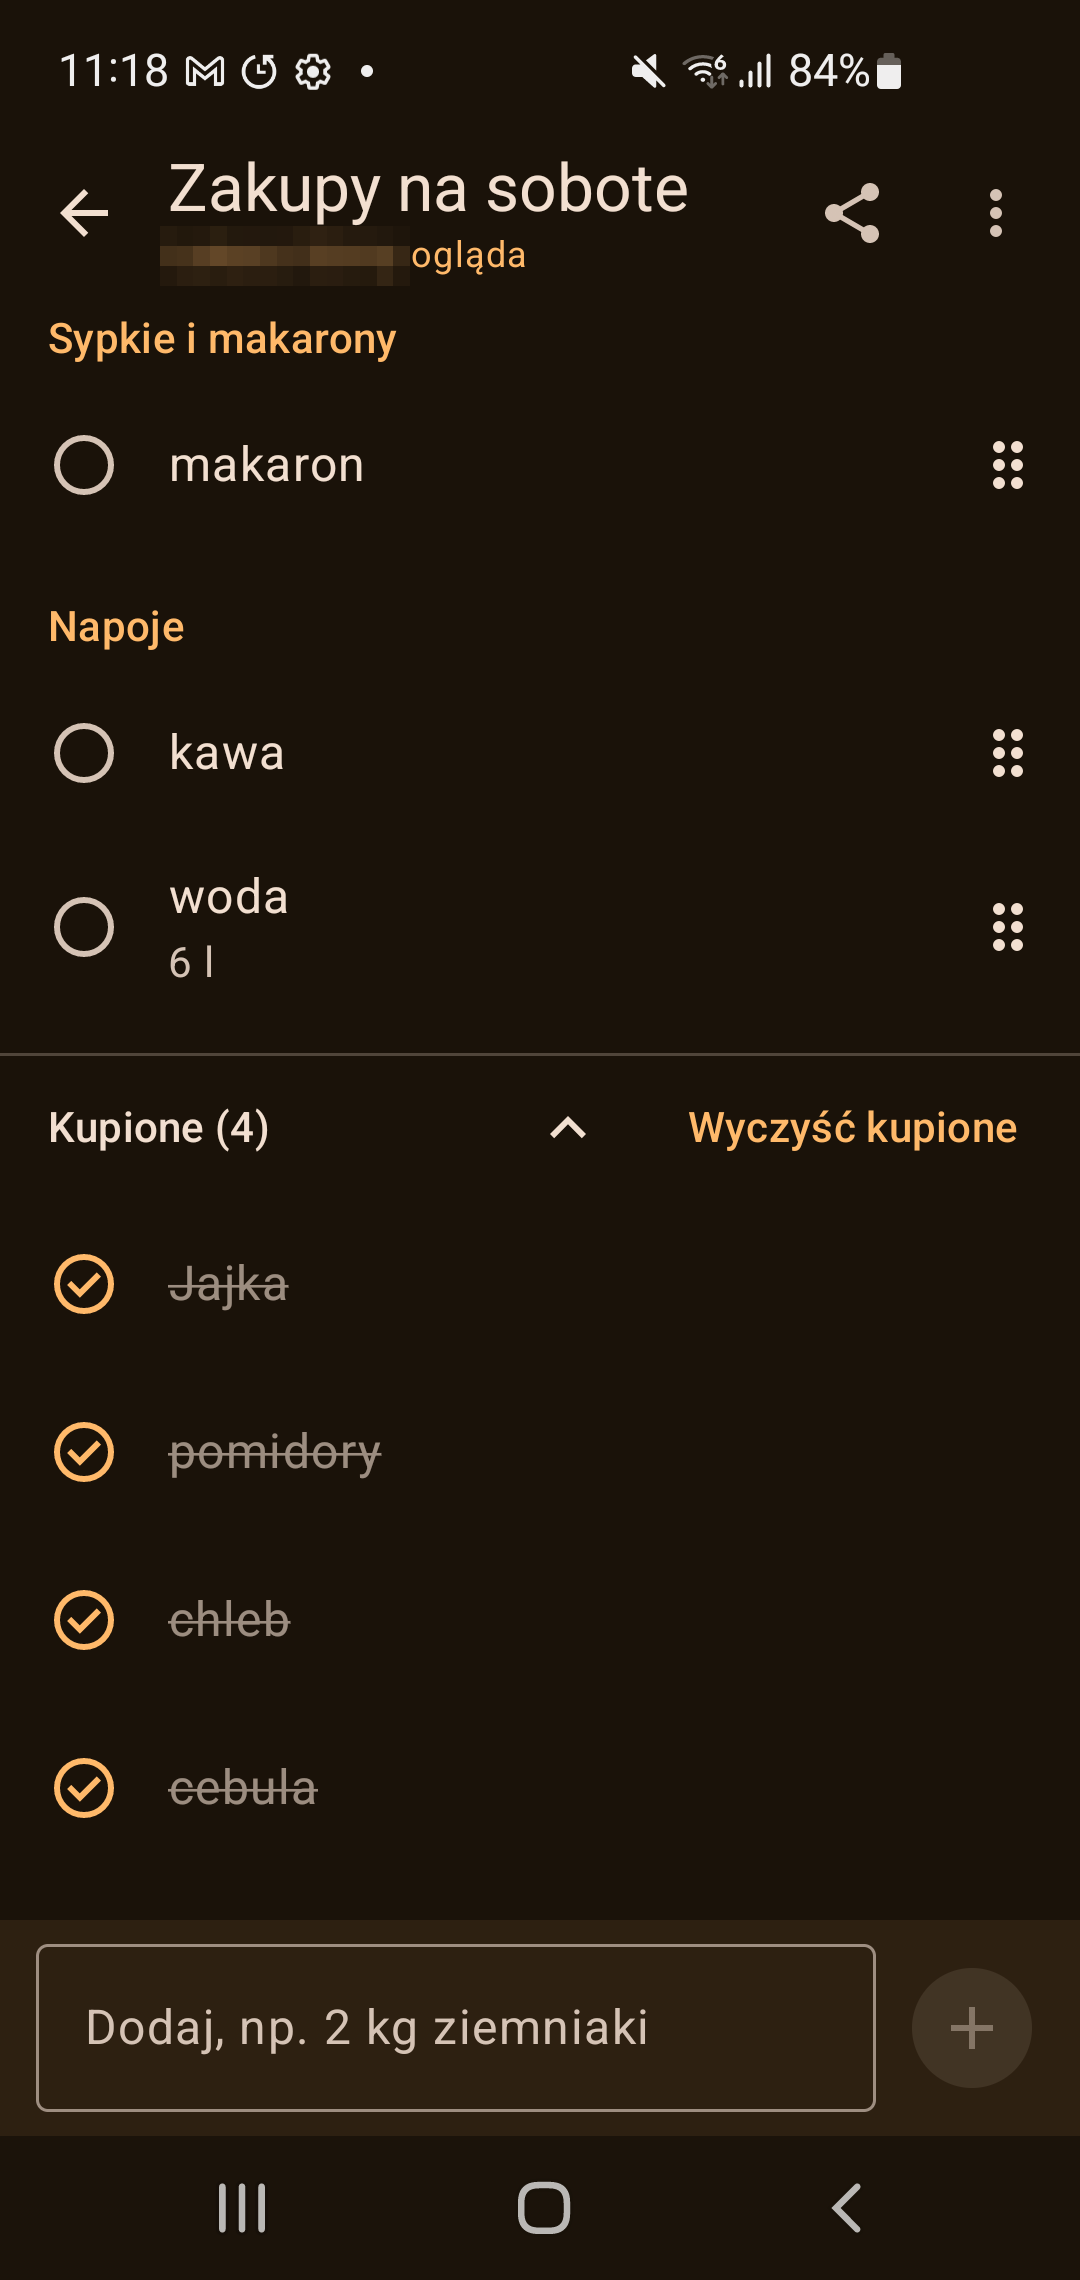
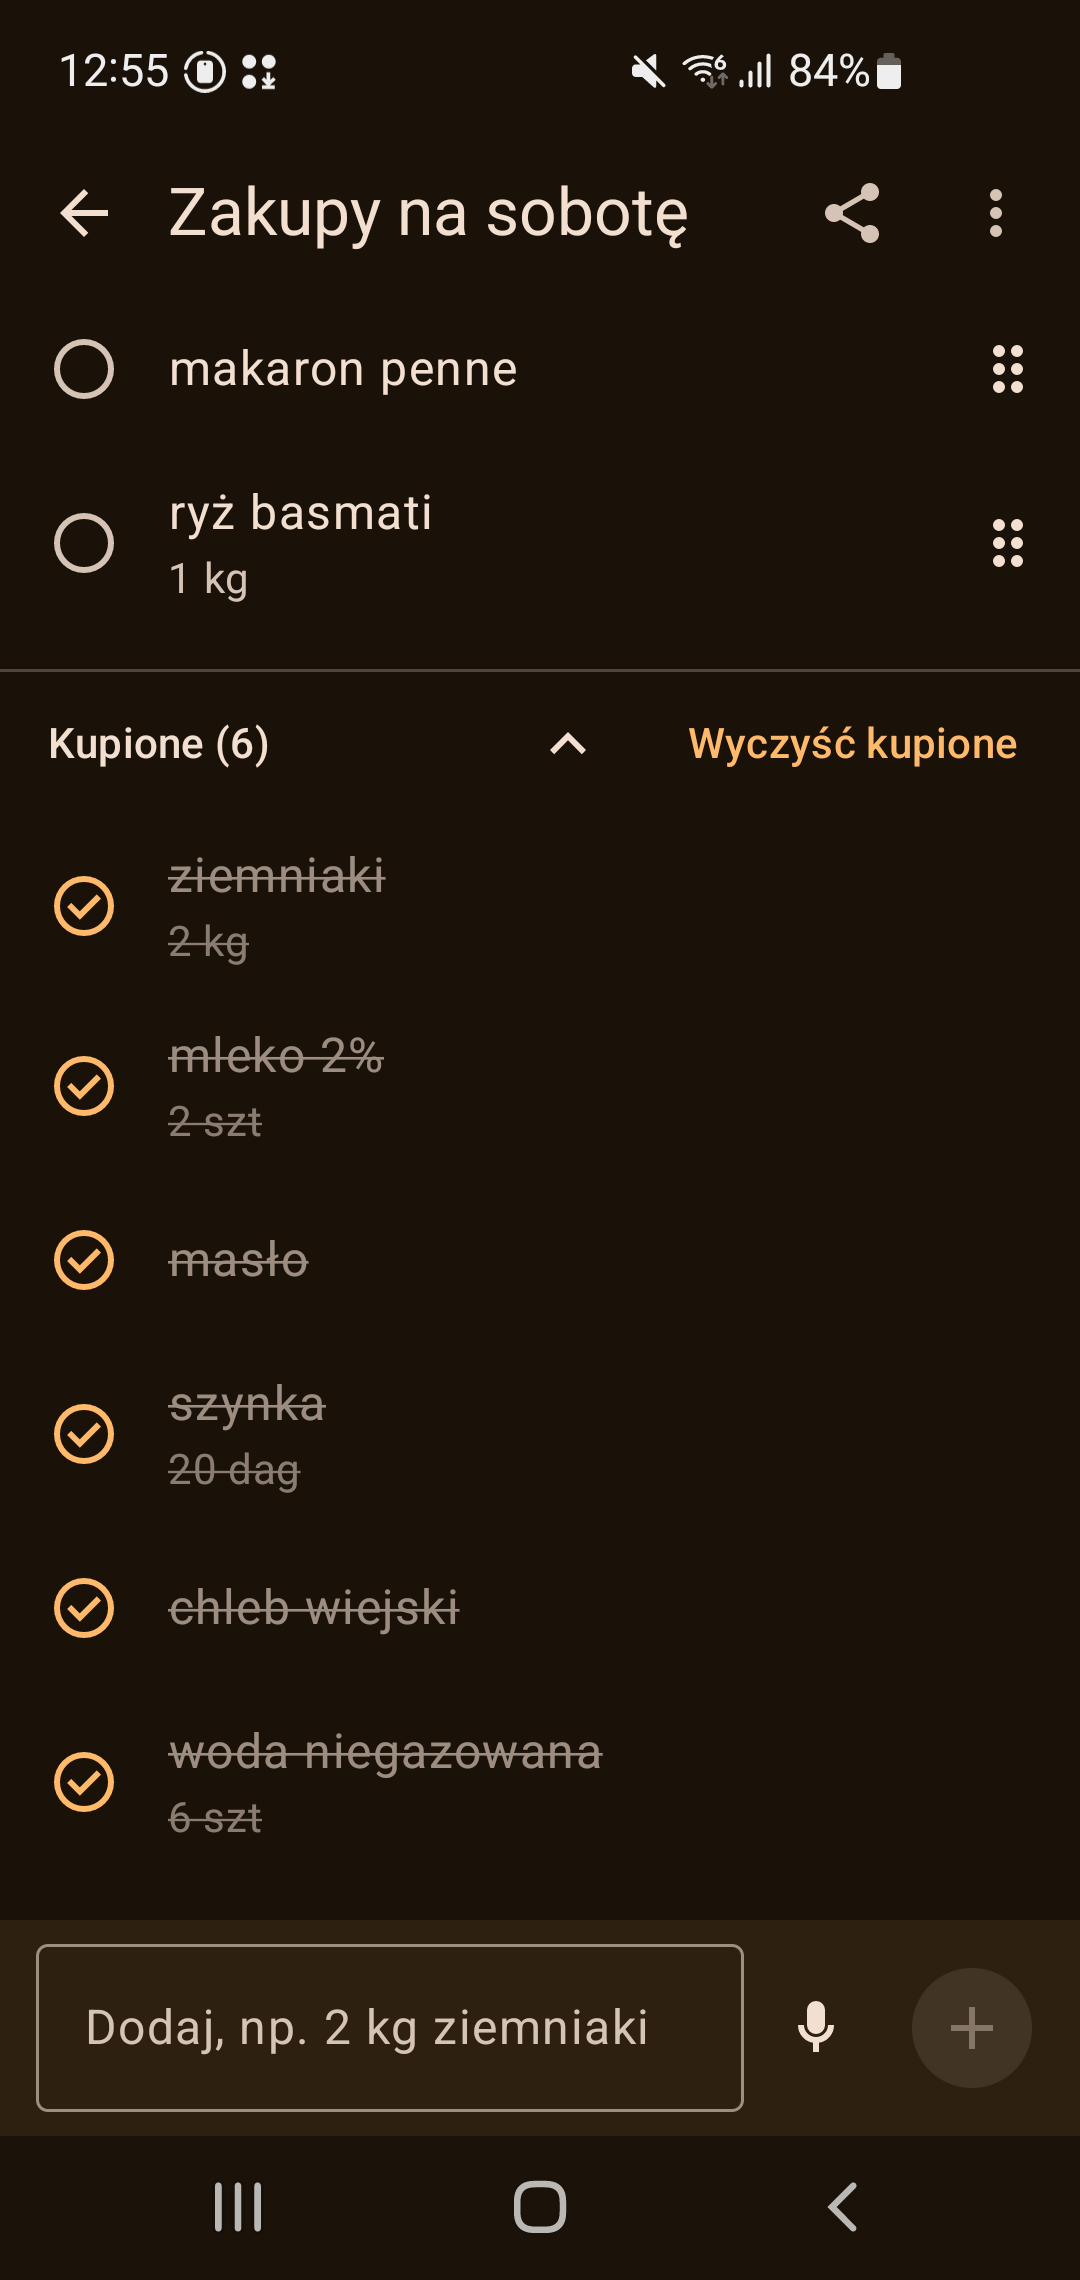
docs: screenshots from a seeded phone, and a README without the phase log
The README's status blockquote was sixty lines of "Phase N is done" —
a changelog, and CHANGELOG.md is the changelog. It goes, and what a
reader of a sideloaded app actually needs takes its place: a "Releases"
section naming the two files every release carries, where the releases
are, that the app checks for its own updates, and that v1.0.0 is not
tagged yet. "Installing" is four sentences. 87 lines, down from 140.

The screenshots are re-taken on the S10e from a seeded local database:
three made-up lists and a made-up member, so no real name, e-mail, uid
or list id is in them and nothing had to be blurred. lists.png,
list-checking.png (now with the mic Phase 7 added) and list-bought.png
are current; import.png and settings.png are new.

STATE.md decisions 117 and 118; open question 11 closes, 13 opens.

Claude-Session: https://claude.ai/code/session_015EkotkLDDm45i6QTWPYt2a

diff --git a/README.md b/README.md
@@ -10,96 +10,43 @@ brought in from [Eat My Way](https://github.com/zyndata/eat-my-way) with one sha
 
 The interface is in **Polish**. The code, comments and documentation are in English.
 
-> **Status: feature-complete, with the release machinery in place and 1.0 not yet tagged. It
-> works as a shopping list you can share:
-> invite someone by link or e-mail, and each of you sees the other's changes on the open list in
-> about half a second, photos included; you can dictate what to buy instead of typing it, share a
-> week's list out of Eat My Way straight into it, and a phone with the app closed is told about
-> a change on a shared list. What is left is a week of daily use, and then the 1.0 tag.**
-> [PLAN.md](PLAN.md) holds the specification and the phases (Phase 11, Google Play, was
-> dropped); [STATE.md](STATE.md) records what has been decided and what is still
-> open.
-> Phase 0, a spike on Drive sharing and the Google project, is done. Its verdict: another
-> member cannot read a shared Drive file under the `drive.file` scope, so shared lists live in
-> Firebase Realtime Database instead (STATE.md decisions 19–24). A change reached the other
-> phone in ~0.1 s, and a push reached a closed app in under 3 s.
-> Phase 1 is done: the app builds (`./gradlew assembleDebug`, see
-> [docs/DEVELOPMENT.md](docs/DEVELOPMENT.md)).
-> Phase 2 is done: the lists live in a local database on the phone, and one tested merge
-> settles changes made on two phones.
-> Phase 3 is done: lists and items on screen. You can create lists and put them in your own
-> order. Type „2 kg ziemniaki, mleko" to add two items, each under its part of the shop. A tap
-> strikes an item through and moves it to „Kupione". Items and departments can be dragged
-> into the order you walk the shop, and a deleted list or item comes back with „Cofnij".
-> Everything works offline and without an account.
-> Phase 4 is done: sign in with Google in Ustawienia, and your lists, including the ones made
-> before, go to Firebase Realtime Database. Another phone signed in to the same account gets
-> them, and edits made on both, even offline, settle the same way on both. Pull down on Listy
-> to fetch changes. The database rules keep each user's lists to that user and refuse a write
-> older than the stored one.
-> Phase 5 is done: „Udostępnij" invites by link or e-mail, as an editor or read-only; the owner
-> can change roles, remove people or make the list private, and anyone else can leave it. An
-> open list is live: someone else's tick shows their initial and slides into „Kupione", and
-> „Ania ogląda" says who is looking. The edit sheet says when an item was edited and bought,
-> and „Sortowanie" shows a list by department, A–Z, or in your own order. Measured on two
-> phones: a tick reached the other in ≈ 0.5 s (p95).
-> Phase 6 is done: an item can carry a photo — taken with the camera or picked from the
-> gallery, without giving the app the camera, storage or photo permission. It is shrunk to at
-> most 800 px and 80 kB, turned the right way up and stripped of everything the camera wrote
-> into it, location above all, before it leaves the phone. It shows in the row and opens full
-> screen.
-> Phase 7 is done: the mic in the add bar takes a whole sentence — „dwa kilo ziemniaków,
-> mleko, masło i chleb" — and shows it as four lines with their departments, to correct before
-> „Dodaj wszystkie" adds them. Nothing is added without that tap, the speech goes to the
-> phone's own recognizer and nowhere else, and it is preferred offline.
-
-> Phase 8 is done: share a shopping list out of Eat My Way (or paste any text with „Wklej ze
-> schowka" on Listy) and it becomes a list here. The preview shows every line under the part of
-> the shop it was printed under, „×" drops one, and you pick an existing list or a new one
-> named after the week. Importing the same list twice sums the quantities instead of adding
-> everything again, and anything that is not an Eat My Way list is read as one item per line.
-> Phase 8b is done: Ustawienia → „Moje produkty" is your own short list of words the built-in
-> dictionary has never heard of — „chleb wiejski" — each with the part of the shop it belongs
-> to. Dictation then hears it as one thing of its own and puts it in that aisle. Nothing lands
-> there by itself: you add it, or tap „Zapamiętaj" on a line while dictating. The list is
-> private to your account and follows it to your other phone.
-> Phase 9 is done: turn „Powiadomienia" on in Ustawienia and a phone with the app closed is
-> told when somebody changes a list you share — one notification per list, „Ania: +3, ✓ 2",
-> and tapping it opens that list already up to date. Pull the notification open and it names
-> what was bought — those names are read from your own database a moment later, once the app
-> has caught up, and never travel in the message. Nothing buzzes while you have the list
-> open, or for a list nobody else is on. There are switches for added items, bought items and
-> newly shared lists, and Ustawienia also has „Usuń moje dane", which removes from the server
-> everything belonging to your account. Nothing about *what* changed travels in the message,
-> and the app still starts no service and polls nothing.
-> Since then, by hand: Ustawienia has „Motyw" (system, light or dark) and „O aplikacji" with
-> the version and the licences, and „Wyczyść kupione" asks before it empties the section.
-> Phase 10 is done: the app is released from a tag. Pushing `vX.Y.Z` builds a signed,
-> R8-minified APK and publishes it as a GitHub Release with its SHA-256, and the app tells you
-> about it: when you open Listy, at most once a day, it asks GitHub whether there is a newer
-> version and shows „Dostępna wersja X — Pobierz" if there is. Nothing about this runs in the
-> background. **`v1.0.0` itself is not tagged yet** — that waits for a week of daily use with
-> no open bug (PLAN.md Phase 10, task 6).
-
 ## Screenshots
 
 <p>
-  <img src="docs/screenshots/lists.png" width="240" alt="Listy: one shared list, „Zakupy na sobote”, 6 of 13 bought, with „… ogląda” (the name hidden) under its name">
-  <img src="docs/screenshots/list-checking.png" width="240" alt="The list by department, with the share icon in the top bar and „… ogląda” (the name hidden) under the list's name">
-  <img src="docs/screenshots/list-bought.png" width="240" alt="The bottom of the list: „Kupione (4)” expanded, with „Wyczyść kupione”">
+  <img src="docs/screenshots/lists.png" width="200" alt="Listy: three lists, „Zakupy na sobotę” marked as shared and 6 of 13 bought">
+  <img src="docs/screenshots/list-checking.png" width="200" alt="„Zakupy na sobotę” by department, with the add bar and its microphone at the bottom">
+  <img src="docs/screenshots/list-bought.png" width="200" alt="The bottom of the list: „Kupione (6)” expanded, with „Wyczyść kupione”">
+  <img src="docs/screenshots/import.png" width="200" alt="Import: a week's list out of Eat My Way, its lines under the departments they were printed under">
+  <img src="docs/screenshots/settings.png" width="200" alt="Ustawienia: the Google sign-in, and the notification switches">
 </p>
 
 ## Installing
 
-Not on Google Play, and not planned to be. Each release is a **GitHub Release** carrying
-`buy-my-way-vX.Y.Z.apk` and its SHA-256: download the APK on the phone, allow Android to
-install it, and that is the whole of it. The app is signed with one key for its whole life, so
-every later version installs straight over the one before it and keeps your lists.
+Not on Google Play, and not planned to be. On the phone, open
+[the newest release](https://github.com/zyndata/buy-my-way/releases/latest), download the
+`.apk`, and let Android install it when it asks. That is the whole of it.
 
-From then on the app tells you itself: when you open Listy — at most once a day, in the
-foreground, never in the background — it asks GitHub whether there is a newer release and shows
-„Dostępna wersja X — Pobierz" if there is. Ustawienia → „O aplikacji" → „Sprawdź aktualizacje"
-asks straight away. Nothing about your account or your lists goes with that request.
+Every version is signed with the same key, so a later one installs straight over the one before
+it and keeps your lists.
+
+## Releases
+
+Each release carries two files:
+
+| File | What it is |
+| --- | --- |
+| `buy-my-way-vX.Y.Z.apk` | the app: signed, minified, about 3 MB, Android 8.0 and newer |
+| `buy-my-way-vX.Y.Z.apk.sha256` | its checksum, if you want to check the download |
+
+- **Every release:** [github.com/zyndata/buy-my-way/releases](https://github.com/zyndata/buy-my-way/releases)
+- **What changed in each one:** [CHANGELOG.md](CHANGELOG.md), written from the commit messages.
+- **The app tells you itself.** When you open Listy — at most once a day, in the foreground,
+  never in the background — it asks GitHub whether there is a newer release and shows
+  „Dostępna wersja X — Pobierz" if there is. Ustawienia → „O aplikacji" → „Sprawdź
+  aktualizacje" asks straight away. Nothing about your account or your lists goes with that
+  request.
+- **`v1.0.0` is not tagged yet.** The app is feature-complete and the releases are real; the
+  1.0 tag waits for a week of daily use with no open bug.
 
 ## What makes it different
 

diff --git a/STATE.md b/STATE.md
@@ -1844,6 +1844,50 @@ what was bought, which is the half of decision 106 that no build output could ha
      `/release` skill and the docs on `dev`, verified as far as this machine can verify them;
      the owner runs `/release` when the week is up. A phase does not release (CLAUDE.md).
 
+### 2026-09-24 — After Phase 10 (the icon, the README and the APK's size)
+
+114. **The launcher icon's background is Eat My Way's `#529888`, not its own `#2E7D32`
+     (owner, 2026-09-24).** The two apps are one household's pair and are meant to look like
+     it; the teal is the colour of Eat My Way's own icon and of its `theme-color`. Only the
+     background changed — the cart stays white, and the in-app palette is still dynamic colour
+     on Android 12+ with the green brand below that (decision 12's theme is untouched).
+
+115. **`localeFilters += "pl"` — the APK stops carrying eighty languages it never shows
+     (owner, 2026-09-24).** The UI is Polish and its strings are the *default* resources, so
+     nothing of ours is filtered; what goes is AndroidX's and Play services' translations.
+     `resources.arsc` fell from 457 kB to 88 kB and the release APK from **3.44 MB to 3.05 MB**,
+     with no code change. This is the answer to „3.5 MB seems a lot": R8 and resource shrinking
+     were already on (decision 112) — the weight was never un-minified code.
+
+116. **What is left of the APK is code, and most of it is not ours.** Measured on the R8
+     mapping of the same build: 7 415 classes survive, of which `com.google.android.*` is
+     1 746 (Play services and, under it, 553 classes of reCAPTCHA and Play Integrity that
+     firebase-auth drags in for phone sign-in, which this app does not have), Compose is about
+     2 480, Firebase 429 and `dev.gorny.buymyway` 732. `classes.dex` is 2.5 MB of the 3.05.
+     **Not done:** excluding `com.google.android.recaptcha:recaptcha` and
+     `com.google.android.play:integrity` from `firebase-auth`. It is worth roughly 400 kB, and
+     it was tried on 2026-09-24: R8 fails on the missing references, so it also needs
+     `-dontwarn` rules, and then Google sign-in — the app's only sign-in — has to be proved on
+     a real phone before it can be believed. Open question 13.
+
+117. **The README's screenshots are taken from a seeded local database, not from a real
+     account (owner, 2026-09-24).** The app was installed on the S10e as a debug build, the
+     Room database was pulled with `run-as`, filled on the PC with three made-up lists and a
+     made-up member („Ania Nowak"), and pushed back. So the screenshots carry no real name,
+     e-mail, uid or list id, and nothing had to be blurred — which the old `lists.png` did.
+     The cost: the presence line („… ogląda") is live state out of RTDB and cannot be seeded,
+     so no screenshot shows it. A list with `ownerUid = null` and `shared = 1` reads as
+     `Role.OWNER` (`ListRepository.roleOf`), which is what puts the add bar and the mic on the
+     screen while signed out.
+
+118. **The README drops the phase-by-phase status and gains a „Releases" section
+     (owner, 2026-09-24).** Sixty lines of „Phase N is done" was a changelog nobody reads, and
+     CHANGELOG.md is the changelog. What a reader of a sideloaded app actually needs is in its
+     place: what the two files in a release are, where the releases are, that the app checks
+     for its own updates, and that `v1.0.0` is not tagged yet. „Installing" is four sentences.
+     The README is 87 lines, down from 140. Phase status lives here, in STATE.md.
+
+
 ## Open questions
 
 1. ~~Where do shared lists live, now that `drive.file` cannot cross users?~~ Answered by
@@ -1912,16 +1956,13 @@ what was bought, which is the half of decision 106 that no build output could ha
     is the sha256 of the writer's own email (decision 57). Phase 5, which reads the index for
     e-mail invites, decides whether that matters. One option: key by the email itself (dots
     encoded) and compare with `auth.token.email`.
-11. **Two of the README's screenshots are a phase behind, and Ustawienia has never had one.**
-    Phase 9 gave Ustawienia a „Powiadomienia" section and „Usuń moje dane", and a screenshot of
-    a notification („Ania: +3, ✓ 2") would show the phase better than any sentence. `docs/screenshots/list-checking.png`
-    shows the add bar without the mic that Phase 7 put there, and after Phase 8 `lists.png`
-    shows Listy's top bar without the „⋮" that „Wklej ze schowka" lives in. Decision 47 leaves
-    screenshots to the owner on a real phone (`adb exec-out screencap`), so they are theirs to
-    re-take; `list-bought.png` is unchanged. Screenshots of „Dyktowanie" and of the import
-    preview would be worth adding at the same time. Phase 10 adds nothing to this list: its one
-    new piece of screen is the update banner, which cannot honestly be photographed until a
-    release exists to be offered.
+11. ~~**Two of the README's screenshots are a phase behind, and Ustawienia has never had one.**~~
+    Re-taken on 2026-09-24 (decision 117), on the S10e, from a seeded database: `lists.png`,
+    `list-checking.png` (now with the mic) and `list-bought.png` are current, and `import.png`
+    and `settings.png` are new. **Still missing:** „Dyktowanie", because its preview needs a
+    real sentence spoken into the phone and cannot be driven over `adb`; and a notification,
+    which needs two accounts. The update banner still cannot be photographed honestly until a
+    release newer than the installed build exists.
 12. **A structured export from Eat My Way — an open question for *that* project, not this one**
     (PLAN.md Phase 8, task 4; raised 2026-09-23). Phase 8 reads the plain text Eat My Way
     already shares, and **no change to Eat My Way is required or requested**. What the text
@@ -1947,3 +1988,11 @@ what was bought, which is the half of decision 106 that no build output could ha
       person can read in a messenger.
     Nothing here is planned. It is written down so that the next person to touch Eat My Way's
     `formatShoppingList` knows what this side would gain.
+
+13. **Can `firebase-auth` be stripped of reCAPTCHA and Play Integrity?** They are ~400 kB of
+    the APK (decision 116) and exist for phone-number sign-in, which this app does not offer —
+    it signs in with a Google ID token through Credential Manager. Excluding them needs
+    `-dontwarn` rules for R8, and after that the question is purely empirical: does
+    `signInWithCredential` still work on a real phone, and does it still work the *first* time
+    on a fresh install? Nothing else in the app would notice. Worth one experiment on the S10e
+    with a debug build; not worth guessing at.
